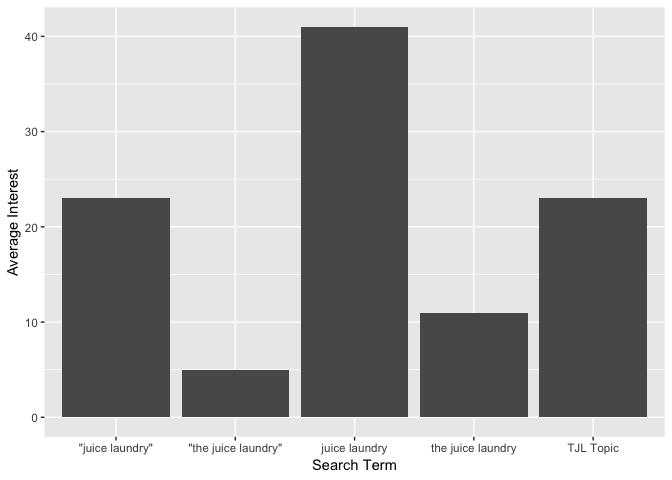
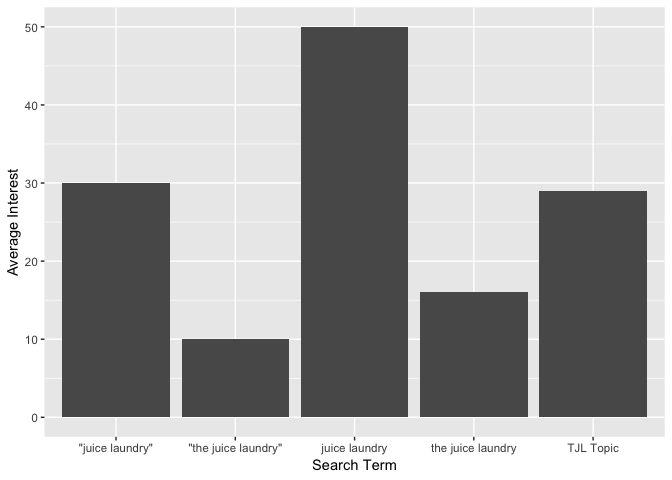
minor style changes

diff --git a/google-trends-guide.md b/google-trends-guide.md
@@ -68,35 +68,35 @@ Along the lines of what this guide will show you, *Google Trends* is most practi
 
 If you do not already have it open, go to <a href="https://trends.google.com/trends/?geo=US" target="blank">Google Trends</a>.
 
-<u>*Step 1:*</u> Enter 'the juice laundry' as your search term. Then change 'Past 12 Months' to a custom time range from October 9, 2016 (10-9-2016) to the end of 2018 (12-31-2018). These dates coincide with the time period of the `thejuicelaundry` package's *Square* transaction data.
+**<u>*Step 1:*</u>** Enter 'the juice laundry' as your search term. Then change 'Past 12 Months' to a custom time range from October 9, 2016 (10-9-2016) to the end of 2018 (12-31-2018). These dates coincide with the time period of the `thejuicelaundry` package's *Square* transaction data.
 
 Notice that you can also change the location, category, and search type (web, image, etc.) parameters, but leave them alone.
 
-<u>*Step 2:*</u> Enter 'The Juice Laundry' (capitalized this time) as a second search term.
+**<u>*Step 2:*</u>** Enter 'The Juice Laundry' (capitalized this time) as a second search term.
 
 Both terms should say 'search term' under them. You will notice that only the red line shows. This is because the **search terms are case insensitive** and the trendlines are identical.
 
-<u>*Step 3:*</u> Replace the second search term with "the juice laundry" (in quotes this time).
+**<u>*Step 3:*</u>** Replace the second search term with "the juice laundry" (in quotes this time).
 
 You will notice that the trendlines are different and that is because sourrounding the term in quotes creates a totally different query based on *Google's* algorithm. Navigate <a href="https://support.google.com/trends/answer/4359582?hl=en" target="blank">here</a> to see the results of queries that are different but that share similar terms. The takeaway is that **the algorithm is stricter on quoted terms** (because it only counts searches with that exact phrase) and the trendlines should reflect this ("the juice laundry" being generally lower then its non-quoted counterpart).
 
-<u>*Step 4:*</u> Add 'juice laundry' and the quoted "juice laundry", in that order, as two more search terms.
+**<u>*Step 4:*</u>** Add 'juice laundry' and the quoted "juice laundry", in that order, as two more search terms.
 
 The resulting trendlines will be unique, displaying generally greater search interest than search terms with "the" (an additional restriction) in them -- which makes sense. Take note of how the interest over time for existing trendlines (the blue and red in this case) shrink as you added the new search terms. Remember that this is because **search interest for one term is relative to the search interest for another**.
 
-<u>*Step 5:*</u> Finally, add *The Juice L aundry* as another search term, but this time choose the option that states "Juice Shop in Charlottesville, VA" underneath it.
+**<u>*Step 5:*</u>** Finally, add *The Juice L aundry* as another search term, but this time choose the option that states "Juice Shop in Charlottesville, VA" underneath it.
 
 You have added what is known as a *topic*. According to Google, **a topic is a group of terms that share a concept**. For example, if you search the topic "London," your search includes results for topics such as "Capital of the UK" and "Londres" which is "London" in Spanish. For all we know, Google's algorithm may be grouping search terms like those we have (more or less) to form the topic of *The Juice Laundry*, but we cannot know for sure what it is doing.
 
 Your screen should look very similar to the photo below. Because samples are different every day, however, the trendlines will not look exactly the same.
 
-![](/Users/malcolm_mashig/box-sync/google-trends-analysis/output/tjl-gtrends-ui.png)
+![](https://raw.githubusercontent.com/MalcolmMashig/google-trends/master/tjl-gtrends-ui.png)
 
-<u>*Step 6:*</u> Scroll your mouse over the trendlines and witness how **relative search interest is aggregated for week intervals**.
+**<u>*Step 6:*</u>** Scroll your mouse over the trendlines and witness how **relative search interest is aggregated for week intervals**.
 
 Look for the peak popularity of the trends and note the specific week they occurred. Do a quick google search for news around that time -- did TJL open a new location or have a story written on them? Is there an obvious reason that relative search interest for them was highest then?
 
-<u>*Step 7:*</u> Download the displayed data as a csv file and open it with Excel or Numbers (using the download button on the top right of the line graph).
+**<u>*Step 7:*</u>** Download the displayed data as a csv file and open it with Excel or Numbers (using the download button on the top right of the line graph). It should come from <a href="https://trends.google.com/trends/explore?date=2016-10-09%202018-12-31&geo=US&q=the%20juice%20laundry,%22the%20juice%20laundry%22,juice%20laundry,%22juice%20laundry%22,%2Fg%2F12m9gwg0k" target="blank">this exact UI</a>.
 
 You will notice that each term has its own column. However, the search terms are values, not variables, and so the dataset as you see it is **not tidy**. To quote <a href = "https://r4ds.had.co.nz/tidy-data.html#tidy-data-1" target = "blank">R4DS</a>, there are three interrelated rules which make a dataset tidy:
 
@@ -157,49 +157,25 @@ gtrends$relative_interest <- as.double(gtrends$relative_interest) # Not Int
 gtrends[gtrends$search_term == gsub("q=", "", 
                                     URLdecode(topic_url)), 
         "search_term"] <- "TJL Topic"
-
-gtrends
 ```
 
-    ## # A tibble: 585 x 3
-    ##    week_of    search_term       relative_interest
-    ##    <date>     <chr>                         <dbl>
-    ##  1 2016-10-09 the juice laundry                10
-    ##  2 2016-10-16 the juice laundry                 0
-    ##  3 2016-10-23 the juice laundry                10
-    ##  4 2016-10-30 the juice laundry                 0
-    ##  5 2016-11-06 the juice laundry                10
-    ##  6 2016-11-13 the juice laundry                 0
-    ##  7 2016-11-20 the juice laundry                 0
-    ##  8 2016-11-27 the juice laundry                 0
-    ##  9 2016-12-04 the juice laundry                 0
-    ## 10 2016-12-11 the juice laundry                 0
-    ## # … with 575 more rows
+``` r
+gtrends
+```
 
 Read in the csv you downloaded from the UI. Swap my local path with your local path.
 
 ``` r
-csv <- "/Users/malcolm_mashig/Downloads/multiTimeline-37.csv"
-raw_google_trends <- read_csv(csv, skip = 2)
-
-raw_google_trends
+csv <- "YOUR/LOCAL/CSV/PATH"
 ```
 
-    ## # A tibble: 117 x 6
-    ##    Week       `the juice laun… `"the juice lau… `juice laundry:…
-    ##    <date>                <dbl>            <dbl>            <dbl>
-    ##  1 2016-10-09               10                0               10
-    ##  2 2016-10-16                0                0               31
-    ##  3 2016-10-23                0                0               10
-    ##  4 2016-10-30                0                0               39
-    ##  5 2016-11-06                0                0                0
-    ##  6 2016-11-13                0               20               10
-    ##  7 2016-11-20                0                0                0
-    ##  8 2016-11-27                0                0               28
-    ##  9 2016-12-04                0                0              100
-    ## 10 2016-12-11               19                9               38
-    ## # … with 107 more rows, and 2 more variables: `"juice laundry": (United
-    ## #   States)` <dbl>, `The Juice Laundry: (United States)` <dbl>
+``` r
+raw_google_trends <- read_csv(csv, skip = 2)
+```
+
+``` r
+raw_google_trends
+```
 
 The data from the UI is not tidy. Tidy it. Reading in from the UI, as you can see, becomes tedious.
 
@@ -224,32 +200,19 @@ google_trends[google_trends$search_term == 'juice laundry: (United States)', "se
 google_trends[google_trends$search_term == '"juice laundry": (United States)', "search_term"] <- '"juice laundry"'
 
 google_trends[google_trends$search_term == 'The Juice Laundry: (United States)', "search_term"] <- "TJL Topic"
-
-google_trends
 ```
 
-    ## # A tibble: 585 x 3
-    ##    week_of    search_term       relative_interest
-    ##    <date>     <chr>                         <dbl>
-    ##  1 2016-10-09 the juice laundry                10
-    ##  2 2016-10-16 the juice laundry                 0
-    ##  3 2016-10-23 the juice laundry                 0
-    ##  4 2016-10-30 the juice laundry                 0
-    ##  5 2016-11-06 the juice laundry                 0
-    ##  6 2016-11-13 the juice laundry                 0
-    ##  7 2016-11-20 the juice laundry                 0
-    ##  8 2016-11-27 the juice laundry                 0
-    ##  9 2016-12-04 the juice laundry                 0
-    ## 10 2016-12-11 the juice laundry                19
-    ## # … with 575 more rows
+``` r
+google_trends
+```
 
 The two datasets may appear identical but we must make sure they are.
 
 ``` r
 setequal(google_trends, gtrends)
-```
 
-    ## [1] FALSE
+## [1] TRUE
+```
 
 **NOTE:** If you do not get TRUE, download a new csv from the UI and rerun everything with the new file.
 
@@ -277,7 +240,7 @@ font_import(pattern = 'product-sans.ttf', prompt=FALSE)
 
 **NOTE:** If you ever get an error like *"polygon edge not found"* in the following steps, save what you have, quit and re-open RStudio, and run it again.
 
-<u>*Line Graph:*</u>
+**<u>*Line Graph:*</u>**
 
 Remember that titles should state conclusions that can be made based on the graph. Make sure that the title I supplied is true and make sure it is a subtitle (a title will be too large later on).
 
@@ -327,7 +290,7 @@ line_graph
 
 ![](google-trends-guide_files/figure-markdown_github/Google%20Line%20Graph-1.png)
 
-<u>*Bar Graph:*</u>
+**<u>*Bar Graph:*</u>**
 
 First, summarize the average `relative_interest` for each search term and round to avoid decimals. The `group_by` and `summarise` functions will almost always be used together.
 
@@ -342,11 +305,11 @@ avg_trend
     ## # A tibble: 5 x 2
     ##   search_term             avg_interest
     ##   <chr>                          <dbl>
-    ## 1 "\"juice laundry\""               23
-    ## 2 "\"the juice laundry\""            5
-    ## 3 juice laundry                     41
-    ## 4 the juice laundry                 11
-    ## 5 TJL Topic                         23
+    ## 1 "\"juice laundry\""               30
+    ## 2 "\"the juice laundry\""           10
+    ## 3 juice laundry                     50
+    ## 4 the juice laundry                 16
+    ## 5 TJL Topic                         29
 
 Construct a draft for the bar graph. Remember that bar graphs with y variables specified must clarify that `stat = 'identity'`.
 
@@ -378,7 +341,7 @@ bar_graph
 
 ![](google-trends-guide_files/figure-markdown_github/Google%20Bar%20Graph-1.png)
 
-<u>*Replicating the UI*</u>
+**<u>*Replicating the UI*</u>**
 
 Now we can arrange both graphs side by side as they appear in the UI. It did require some guessing-and-checking in order to decide the scaling that was best.
 
@@ -390,7 +353,7 @@ grid.arrange(bar_graph, line_graph, ncol = 2, widths = c(2, 5))
 
 Here is the example UI again for comparision:
 
-![](/Users/malcolm_mashig/box-sync/google-trends-analysis/output/tjl-gtrends-ui.png)
+![](https://raw.githubusercontent.com/MalcolmMashig/google-trends/master/tjl-gtrends-ui.png)
 
 ------------------------------------------------------------------------
 
